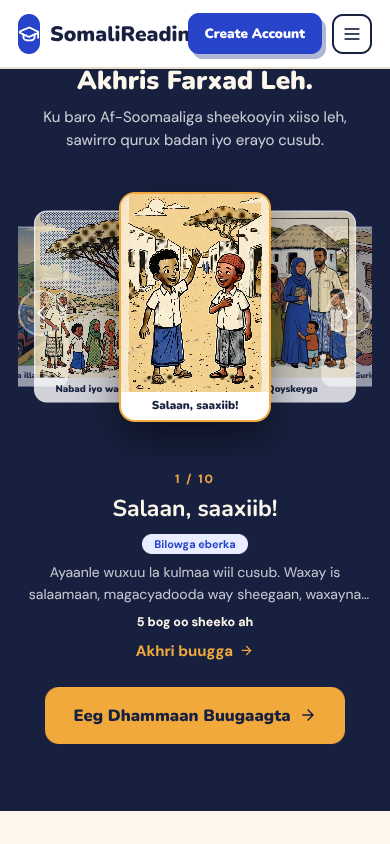
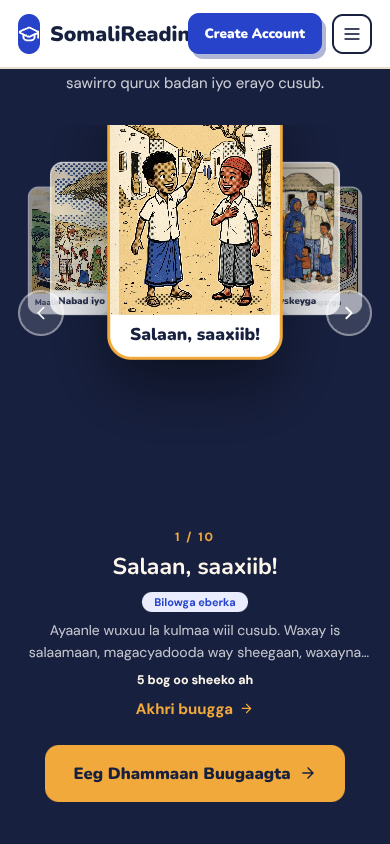
Carousel: focused cover 50% larger, side covers staggered, mobile fit
- Focused cover scaled 1.5x with taller stage; neighbours pushed further
  out (95%/143%) and staggered downward for depth
- Mobile (<=640px): smaller base cover and tighter offsets so no cover is
  clipped at the screen edge; arrows repositioned
- Regenerated carousel screenshots at 390/1280

diff --git a/src/parents/parents.css b/src/parents/parents.css
@@ -135,20 +135,29 @@ html { scroll-behavior: smooth; }
 /* ── books carousel ───────────────────────────────────────────────── */
 .ph-books-section { background: var(--navy); }
 .ph-carousel { position: relative; max-width: 980px; margin: 0 auto 26px; outline: none; }
-.ph-car-stage { position: relative; height: clamp(275px, 36vw, 330px); overflow: hidden; touch-action: pan-y; cursor: grab; }
+.ph-car-stage { position: relative; height: clamp(355px, 42vw, 470px); overflow: hidden; touch-action: pan-y; cursor: grab; }
 .ph-car-stage:active { cursor: grabbing; }
 .ph-car-item { position: absolute; left: 50%; top: 10px; width: clamp(152px, 19vw, 205px); padding: 0 0 7px; border: 2.5px solid rgba(255, 255, 255, 0.22); border-radius: 16px; overflow: hidden; background: var(--white); cursor: pointer; transition: transform .45s cubic-bezier(.2, .7, .2, 1), opacity .45s ease; }
 .ph-car-item img { display: block; width: 100%; aspect-ratio: 3 / 4; object-fit: cover; pointer-events: none; }
 .ph-car-item span { display: block; font-family: 'Nunito', sans-serif; font-weight: 800; font-size: 11.5px; color: var(--navy); padding: 5px 8px 0; white-space: nowrap; overflow: hidden; text-overflow: ellipsis; }
-.ph-pos0 { transform: translateX(-50%) scale(1); z-index: 5; opacity: 1; border-color: var(--amber); box-shadow: 0 18px 42px rgba(0, 0, 0, 0.45); }
+.ph-pos0 { transform: translateX(-50%) scale(1.5); z-index: 5; opacity: 1; border-color: var(--amber); box-shadow: 0 18px 42px rgba(0, 0, 0, 0.45); }
 .ph-posn1, .ph-pos1 { z-index: 4; opacity: 0.8; }
-.ph-posn1 { transform: translateX(calc(-50% - 64%)) scale(0.84); }
-.ph-pos1 { transform: translateX(calc(-50% + 64%)) scale(0.84); }
+.ph-posn1 { transform: translateX(calc(-50% - 95%)) translateY(20px) scale(0.84); }
+.ph-pos1 { transform: translateX(calc(-50% + 95%)) translateY(20px) scale(0.84); }
 .ph-posn2, .ph-pos2 { z-index: 3; opacity: 0.55; }
-.ph-posn2 { transform: translateX(calc(-50% - 118%)) scale(0.7); }
-.ph-pos2 { transform: translateX(calc(-50% + 118%)) scale(0.7); }
+.ph-posn2 { transform: translateX(calc(-50% - 143%)) translateY(36px) scale(0.7); }
+.ph-pos2 { transform: translateX(calc(-50% + 143%)) translateY(36px) scale(0.7); }
+@media (max-width: 640px) {
+  .ph-car-stage { height: 390px; }
+  .ph-car-item { width: clamp(108px, 30vw, 150px); top: 6px; }
+  .ph-posn1 { transform: translateX(calc(-50% - 82%)) translateY(16px) scale(0.84); }
+  .ph-pos1 { transform: translateX(calc(-50% + 82%)) translateY(16px) scale(0.84); }
+  .ph-posn2 { transform: translateX(calc(-50% - 108%)) translateY(28px) scale(0.7); }
+  .ph-pos2 { transform: translateX(calc(-50% + 108%)) translateY(28px) scale(0.7); }
+  .ph-car-arrow { top: 150px; }
+}
 .ph-car-item.far { opacity: 0; visibility: hidden; pointer-events: none; }
-.ph-car-arrow { position: absolute; top: clamp(108px, 15vw, 145px); z-index: 10; width: 46px; height: 46px; border-radius: 999px; border: 2px solid rgba(255, 255, 255, 0.4); background: rgba(255, 255, 255, 0.14); color: #fff; display: inline-flex; align-items: center; justify-content: center; cursor: pointer; transition: background .15s ease; }
+.ph-car-arrow { position: absolute; top: clamp(165px, 21vw, 225px); z-index: 10; width: 46px; height: 46px; border-radius: 999px; border: 2px solid rgba(255, 255, 255, 0.4); background: rgba(255, 255, 255, 0.14); color: #fff; display: inline-flex; align-items: center; justify-content: center; cursor: pointer; transition: background .15s ease; }
 .ph-car-arrow:hover { background: rgba(255, 255, 255, 0.3); }
 .ph-car-arrow.left { left: 0; }
 .ph-car-arrow.right { right: 0; }
